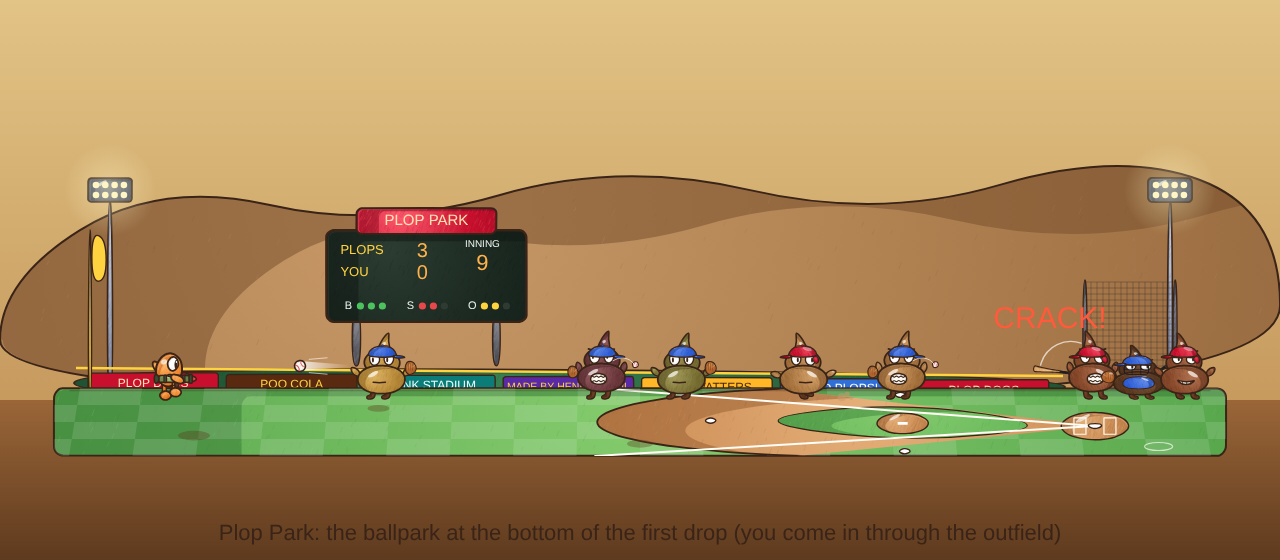
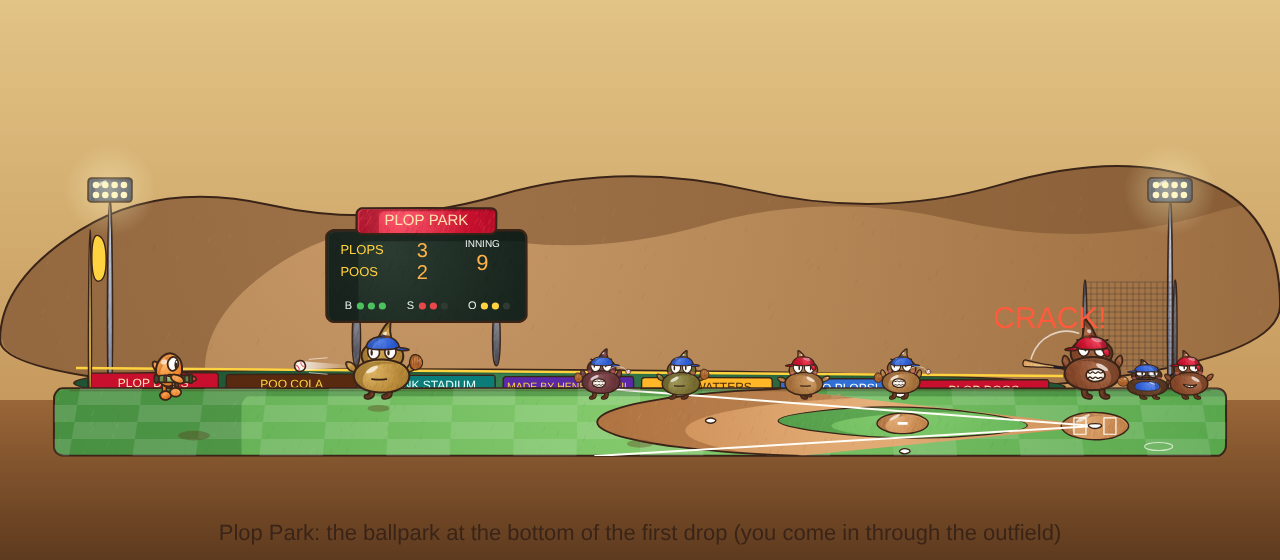
Level 4 baseball art: Plops (blue caps) vs Poos (red caps) on the scoreboard; medium Plops playing (the batter, a fielder) among the small ones
Claude-Session: https://claude.ai/code/session_01J77fP5avCCtqdyudLnsw4o

diff --git a/sketches/level4/baseball-sheet.ts b/sketches/level4/baseball-sheet.ts
@@ -26,7 +26,7 @@ const sheet = (name: string, w: number, h: number) => { const c = document.creat
   // a far canyon wall (we're at the bottom of the drop)
   ST.shape(ctx, [[-20, ground - 120], [140, ground - 220], [360, ground - 170], [600, ground - 240], [860, ground - 180], [1100, ground - 250], [W + 20, ground - 190], [W + 20, ground], [-20, ground]], { base: '#a8794a', shade: '#7a5230', light: '#c99a68' }, 9, { lw: 1 });
   ctx.translate(0, ground - PARK.BACK_UP);
-  drawBallparkBack(ctx, FW, [3, 0]);
+  drawBallparkBack(ctx, FW, [3, 2]);
   ctx.translate(0, PARK.BACK_UP);
   // the ground (poo dirt)
   { const gg = ctx.createLinearGradient(0, 0, 0, 160); gg.addColorStop(0, '#9a6638'); gg.addColorStop(1, '#5e3a1e'); ctx.fillStyle = gg; ctx.fillRect(-20, 0, W + 40, 160); }
@@ -36,15 +36,16 @@ const sheet = (name: string, w: number, h: number) => { const c = document.creat
   // the players, standing on the ground line (y = 0)
   const sp = parkSpots(FW);
   let ci = 0;
-  const plop = (x: number, role: BaseballRole, flip = false, k = 0.68) => { const body = PLOP_COLOURS[ci++ % PLOP_COLOURS.length]; at(ctx, flip ? x + 48 * k : x - 48 * k, -100 * k, k, () => drawBaseballPlop(ctx, role, 'medium', 7 + x, body), flip); };
+  // (small Plops at 0.68 the size of the medium ones, like in the levels)
+  const plop = (x: number, role: BaseballRole, flip = false, kind: 'small' | 'medium' = 'small') => { const k = 0.8 * (kind === 'small' ? 0.68 : 1); const body = PLOP_COLOURS[ci++ % PLOP_COLOURS.length]; at(ctx, flip ? x + 48 * k : x - 48 * k, -100 * k, k, () => drawBaseballPlop(ctx, role, kind, 7 + x, body), flip); };
   plop(sp.mound.x, 'pitch-throw');
-  plop(sp.home.x + 4, 'bat-swing', true);
-  plop(sp.home.x + 52, 'catcher', true);
+  plop(sp.home.x + 4, 'bat-swing', true, 'medium');
+  plop(sp.home.x + 60, 'catcher', true);
   plop(sp.second.x - 30, 'fielder');
-  plop(PARK.END + 300, 'fielder');
+  plop(PARK.END + 300, 'fielder', false, 'medium');
   plop(PARK.END + 520, 'fielder-throw');
   plop(sp.first.x - 95, 'runner', true);
-  plop(sp.home.x + 96, 'on-deck', true);
+  plop(sp.home.x + 100, 'on-deck', true);
   // you, walking in from the left
   const hero = CHARACTERS[0];
   at(ctx, PARK.END + 90 - 28, -54, 1, () => drawCharacter(ctx, 0, 0, hero, 'walk2'));
@@ -59,16 +60,17 @@ const sheet = (name: string, w: number, h: number) => { const c = document.creat
   const sox: [BaseballRole, string, boolean][] = [['pitch-windup', 'pitcher: wind-up', false], ['pitch-throw', 'pitcher: throw!', false], ['catcher', 'catcher', true], ['fielder', 'fielder', false], ['fielder-throw', 'fielder: throws it in', false]];
   const swat: [BaseballRole, string, boolean][] = [['bat-stance', 'batter: stance', true], ['bat-swing', 'batter: CRACK!', true], ['on-deck', 'on deck', true], ['runner', 'runner', false]];
   const ctx = sheet('players', 1240, 760);
-  label(ctx, 'The Plops playing baseball: two teams, every Plop its own colour', 620, 40, 26);
+  label(ctx, 'Plops vs Poos: two teams, every player its own colour, small and medium', 620, 40, 26);
   let ci = 0;
-  ([[TEAM.sox.name + ' (blue caps): fielding', sox, 330], [TEAM.swatters.name + ' (red caps): batting', swat, 690]] as const).forEach(([title, list, base]) => {
+  ([[TEAM.plops.name + ' (blue caps): fielding', sox, 330], [TEAM.poos.name + ' (red caps): batting', swat, 690]] as const).forEach(([title, list, base]) => {
     label(ctx, title, 620, base - 236, 22, '#5a3a22');
     list.forEach(([role, t, flip], i) => {
       const x = 130 + i * 245;
-      const k = 1.7;
+      const kind = role === 'bat-swing' || role === 'bat-stance' || role === 'fielder' ? 'medium' : 'small';
+      const k = 1.7 * (kind === 'small' ? 0.68 : 1);
       const body = PLOP_COLOURS[ci++ % PLOP_COLOURS.length];
-      at(ctx, flip ? x + 48 * k : x - 48 * k, base - 100 * k, k, () => drawBaseballPlop(ctx, role, 'medium', 30 + i, body), flip);
-      label(ctx, t, x, base + 30, 17);
+      at(ctx, flip ? x + 48 * k : x - 48 * k, base - 100 * k, k, () => drawBaseballPlop(ctx, role, kind, 30 + i, body), flip);
+      label(ctx, t + (role === 'bat-swing' || role === 'bat-stance' || role === 'fielder' ? ' (medium)' : ''), x, base + 30, 17);
     });
   });
 }

diff --git a/src/gfx/baseball.ts b/src/gfx/baseball.ts
@@ -168,7 +168,7 @@ export function drawBallparkFront(ctx: Ctx, w: number) {
  * Behind the field (BACK_UP tall, ground line at the bottom): the padded outfield wall with ads,
  * the scoreboard over left field, the foul pole, the backstop net behind home, and floodlights.
  */
-export function drawBallparkBack(ctx: Ctx, w: number, score: [number, number] = [3, 0]) {
+export function drawBallparkBack(ctx: Ctx, w: number, score: [number, number] = [3, 2]) {
   const { END, BACK_UP } = PARK;
   const x0 = END;
   const x1 = END + w;
@@ -238,7 +238,7 @@ export function drawBallparkBack(ctx: Ctx, w: number, score: [number, number] = 
   // the foul pole (left field)
   ST.shape(ctx, [[x0 + 8, gy], [x0 + 12, gy], [x0 + 11, gy - 170], [x0 + 9, gy - 170]], F('#ffd23f', '#d9a514', '#fff0a0'), 3150, { lw: 0.8 });
   ST.shape(ctx, [[x0 + 12, gy - 168], [x0 + 26, gy - 160], [x0 + 26, gy - 120], [x0 + 12, gy - 118]], F('#ffd23f', '#d9a514', '#fff0a0'), 3151, { lw: 0.7, plain: true });
-  // the scoreboard over left-centre field: PLOPS vs YOU, the inning, balls / strikes / outs
+  // the scoreboard over left-centre field: PLOPS vs POOS, the inning, balls / strikes / outs
   const sx = x0 + w * 0.22;
   const sw = 200;
   const sy = gy - 170;
@@ -253,8 +253,8 @@ export function drawBallparkBack(ctx: Ctx, w: number, score: [number, number] = 
   ctx.font = `13px ${FONT}`;
   ctx.textAlign = 'left';
   ctx.fillStyle = '#ffd23f';
-  ctx.fillText('PLOPS', sx + 14, sy + 20);
-  ctx.fillText('YOU', sx + 14, sy + 42);
+  ctx.fillText(TEAM.plops.name, sx + 14, sy + 20);
+  ctx.fillText(TEAM.poos.name, sx + 14, sy + 42);
   // the score in lit bulbs
   ctx.textAlign = 'center';
   ctx.font = `20px ${FONT}`;
@@ -411,20 +411,20 @@ function drawCap(ctx: Ctx, col: Fill, seed: number, helmet = false) {
 }
 
 /**
- * The two teams: the Stink Sox (blue caps: fielding — pitcher, catcher, fielders) and the
- * Fly Swatters (red caps and batting helmets: the batter, the one on deck, the runner).
+ * The two teams: the Plops (blue caps: fielding — pitcher, catcher, fielders) and the Poos
+ * (red caps and batting helmets: the batter, the one on deck, the runner).
  */
 export const TEAM = {
-  sox: { name: 'STINK SOX', cap: F('#2f5fd6', '#1c3f9e', '#6e96f0') },
-  swatters: { name: 'FLY SWATTERS', cap: F('#c8102e', '#8a0a1f', '#ff5a6e') },
+  plops: { name: 'PLOPS', cap: F('#2f5fd6', '#1c3f9e', '#6e96f0') },
+  poos: { name: 'POOS', cap: F('#c8102e', '#8a0a1f', '#ff5a6e') },
 } as const;
 export type Team = keyof typeof TEAM;
 
 export type BaseballRole = 'pitch-windup' | 'pitch-throw' | 'bat-stance' | 'bat-swing' | 'on-deck' | 'runner' | 'catcher' | 'fielder' | 'fielder-throw';
 /** Which team plays each part. */
 export const ROLE_TEAM: Record<BaseballRole, Team> = {
-  'pitch-windup': 'sox', 'pitch-throw': 'sox', catcher: 'sox', fielder: 'sox', 'fielder-throw': 'sox',
-  'bat-stance': 'swatters', 'bat-swing': 'swatters', 'on-deck': 'swatters', runner: 'swatters',
+  'pitch-windup': 'plops', 'pitch-throw': 'plops', catcher: 'plops', fielder: 'plops', 'fielder-throw': 'plops',
+  'bat-stance': 'poos', 'bat-swing': 'poos', 'on-deck': 'poos', runner: 'poos',
 };
 
 /**
